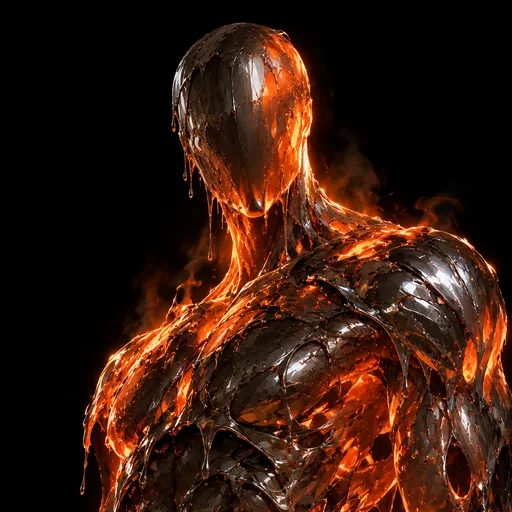
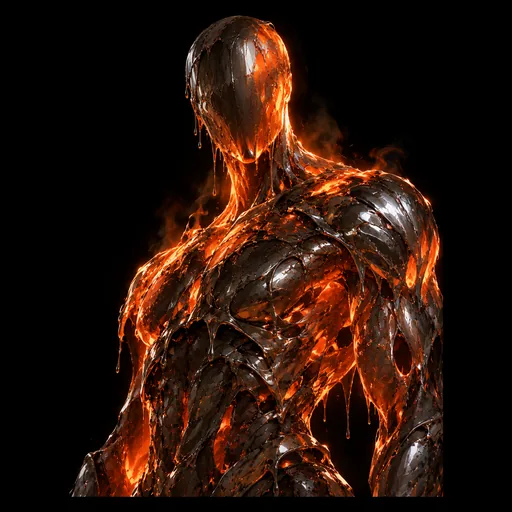
Арт новых карт пересобран конвейером; лист карт обновлён
Я поставил пять артов МИМО конвейера — руками кадрировал и клал webp прямо в
art/cards. А в проекте для этого есть tools/art_cards.py, и он делает ровно то,
чего моему ручному кадру не хватило:

  в_квадрат() режет окно вокруг СЮЖЕТА, а не по кадру, и сажает сюжет в ту же
    долю высоты, что у готовых артов. Мой кадр срезал Барри и Аманду краем
    карты — у прежних карт такого нет;
  кайма_в_ноль() гасит края в чистый (0,0,0) с плато у самого края, чтобы webp
    не подтянул ноль к соседям. Именно поэтому у всех старых карт край чёрный,
    а у моих ручных доходил до 255.

Оригиналы автора положены в art/_raw (папка в .gitignore, как и было), в MAP
дописаны пять строк, арт пересобран. Края стали 0-2 вместо 194-255, сюжет
целиком внутри рамки. Проверено, что конвейер детерминированный: из 47 карт
изменились ровно мои десять файлов, остальные воспроизвелись побайтово.

В шапке art_cards.py поправлен путь: CARD_ART живёт в js/07-cards.js, а не в
js/02-data.js, как там было написано.

cards-sheet.html пересобран: он ГЕНЕРИРУЕМЫЙ, и висел на 38 картах, когда в
игре их стало 43. Остальные стенды правки не потребовали — dev.html,
poster-lab, story.html, scene-lab и map-lab читают настоящий js/02-data.js и
подхватили всё сами: проверено, дев-панель показывает 42 строки коллекции и все
пять новых карт.

Метку сборки не поднимаю: файлы, на которые она стоит, не менялись. Арт
кэш-меткой не прикрыт вовсе, но он у нас только прибавляется, а не заменяется.

diff --git a/cards-sheet.html b/cards-sheet.html
@@ -120,7 +120,7 @@ const S={foil:false,anim:false,vfx:false,gfx:{}};
 <script src="js/07-cards.js"></script>
 
 <h1>БАМ-БАМ: КАСКАД — все карты</h1>
-<div class="sub">38 карт · без арта: 1 · тексты посчитаны кодом игры · tools/cards_sheet.py</div>
+<div class="sub">43 карт · без арта: 1 · тексты посчитаны кодом игры · tools/cards_sheet.py</div>
 <h2>РЕКРУТ <span>★ · 11 карт · без арта: 1</span></h2>
 <div class="grid"><article class="c t0" style="--el:#c9d4dc">
   <div class="вид" data-id="r01"></div>
@@ -130,7 +130,7 @@ const S={foil:false,anim:false,vfx:false,gfx:{}};
   <div class="meta"><b class="el">СТАЛЬ</b><b class="tier">РЕКРУТ ★</b></div>
   <div class="stats"><span class="st"><b class="a">2</b><i>АТАКА</i></span><span class="st"><b class="h">1</b><i>ЖИЗНИ</i></span></div>
   
-  <p class="desc">Без эффекта — честный боец: ставь на поле, со следующего хода атакует. Хорошие статы за свои деньги.</p>
+  <p class="desc">Без боевого клича — честный боец: ставь на поле, со следующего хода атакует. Хорошие статы за свои деньги.</p>
   <p class="fl">«Осторожно — злые собаки.»</p>
   <div class="tags"><b class="tag ok">арт есть</b></div>
 </article>
@@ -142,7 +142,7 @@ const S={foil:false,anim:false,vfx:false,gfx:{}};
   <div class="meta"><b class="el">СТАЛЬ</b><b class="tier">РЕКРУТ ★</b><b class="kw">ТАУНТ</b></div>
   <div class="stats"><span class="st"><b class="a">2</b><i>АТАКА</i></span><span class="st"><b class="h">3</b><i>ЖИЗНИ</i></span></div>
   <p><span class="kw">ТАУНТ</span> пока он жив, вражеские юниты обязаны бить его, а не героя. <b>Заклятия и боевые кличи он НЕ останавливает</b> — по герою из них попасть можно</p>
-  <p class="desc">Без эффекта — честный боец: ставь на поле, со следующего хода атакует. Хорошие статы за свои деньги.</p>
+  <p class="desc">Без боевого клича — работа простая: встать стеной и держать удар. Хорошие статы за свои деньги.</p>
   <p class="fl">«Патрулирует. Что ему ещё делать?»</p>
   <div class="tags"><b class="tag ok">арт есть</b></div>
 </article>
@@ -166,7 +166,7 @@ const S={foil:false,anim:false,vfx:false,gfx:{}};
   <div class="meta"><b class="el">ОГОНЬ</b><b class="tier">РЕКРУТ ★</b></div>
   <div class="stats"><span class="st"><b class="a">3</b><i>АТАКА</i></span><span class="st"><b class="h">3</b><i>ЖИЗНИ</i></span></div>
   
-  <p class="desc">Без эффекта — честный боец: ставь на поле, со следующего хода атакует. Хорошие статы за свои деньги.</p>
+  <p class="desc">Без боевого клича — честный боец: ставь на поле, со следующего хода атакует. Хорошие статы за свои деньги.</p>
   <p class="fl">«Ищет брата. Третий курс Полицейской Академии.»</p>
   <div class="tags"><b class="tag ok">арт есть</b></div>
 </article>
@@ -190,7 +190,7 @@ const S={foil:false,anim:false,vfx:false,gfx:{}};
   <div class="meta"><b class="el">ВОЛЬТА</b><b class="tier">РЕКРУТ ★</b><b class="kw">РАШ</b></div>
   <div class="stats"><span class="st"><b class="a">3</b><i>АТАКА</i></span><span class="st"><b class="h">1</b><i>ЖИЗНИ</i></span></div>
   <p><span class="kw">РАШ</span> атакует в тот же ход, когда вышел — не ждёт</p>
-  <p class="desc">Без эффекта — честный боец: ставь на поле, со следующего хода атакует. Хорошие статы за свои деньги.</p>
+  <p class="desc">Без боевого клича — вся сила в статах и в <span class="kw">РАШе</span>: бьёт в тот же ход, когда вышел.</p>
   <p class="fl">«Не ясно, как именно он целится, но в целом попадает.»</p>
   <div class="tags"><b class="tag ok">арт есть</b></div>
 </article>
@@ -202,7 +202,7 @@ const S={foil:false,anim:false,vfx:false,gfx:{}};
   <div class="meta"><b class="el">ЛЁД</b><b class="tier">РЕКРУТ ★</b><b class="kw">ТАУНТ</b></div>
   <div class="stats"><span class="st"><b class="a">3</b><i>АТАКА</i></span><span class="st"><b class="h">5</b><i>ЖИЗНИ</i></span></div>
   <p><span class="kw">ТАУНТ</span> пока он жив, вражеские юниты обязаны бить его, а не героя. <b>Заклятия и боевые кличи он НЕ останавливает</b> — по герою из них попасть можно</p>
-  <p class="desc">Без эффекта — честный боец: ставь на поле, со следующего хода атакует. Хорошие статы за свои деньги.</p>
+  <p class="desc">Без боевого клича — работа простая: встать стеной и держать удар. Хорошие статы за свои деньги.</p>
   <p class="fl">«Пост сдал — пост принял…»</p>
   <div class="tags"><b class="tag ok">арт есть</b></div>
 </article>
@@ -254,7 +254,7 @@ const S={foil:false,anim:false,vfx:false,gfx:{}};
   <p class="fl">«1 эспрессо = 1 мана»</p>
   <div class="tags"><b class="tag">не выпадает из паков</b><b class="tag no">АРТА НЕТ</b></div>
 </article></div>
-<h2>ГОРОД <span>★★ · 9 карт · без арта: 0</span></h2>
+<h2>ГОРОД <span>★★ · 11 карт · без арта: 0</span></h2>
 <div class="grid"><article class="c t1" style="--el:#c9d4dc">
   <div class="вид" data-id="c01"></div>
   <header><span class="cost">4</span>
@@ -263,7 +263,7 @@ const S={foil:false,anim:false,vfx:false,gfx:{}};
   <div class="meta"><b class="el">СТАЛЬ</b><b class="tier">ГОРОД ★★</b><b class="kw">РАШ</b></div>
   <div class="stats"><span class="st"><b class="a">3</b><i>АТАКА</i></span><span class="st"><b class="h">5</b><i>ЖИЗНИ</i></span></div>
   <p><span class="kw">РАШ</span> атакует в тот же ход, когда вышел — не ждёт</p>
-  <p class="desc">Без эффекта — честный боец: ставь на поле, со следующего хода атакует. Хорошие статы за свои деньги.</p>
+  <p class="desc">Без боевого клича — вся сила в статах и в <span class="kw">РАШе</span>: бьёт в тот же ход, когда вышел.</p>
   <p class="fl">«АИ-95? Не смеши, дорого же…»</p>
   <div class="tags"><b class="tag ok">арт есть</b></div>
 </article>
@@ -311,7 +311,7 @@ const S={foil:false,anim:false,vfx:false,gfx:{}};
   <div class="meta"><b class="el">ВОЛЬТА</b><b class="tier">ГОРОД ★★</b></div>
   <div class="stats"><span class="st"><b class="a">3</b><i>АТАКА</i></span><span class="st"><b class="h">4</b><i>ЖИЗНИ</i></span></div>
   
-  <p class="desc">Без эффекта — честный боец: ставь на поле, со следующего хода атакует. Хорошие статы за свои деньги.</p>
+  <p class="desc">Без боевого клича — честный боец: ставь на поле, со следующего хода атакует. Хорошие статы за свои деньги.</p>
   <p class="fl">«Я волна… ударная волна!»</p>
   <div class="tags"><b class="tag ok">арт есть</b></div>
 </article>
@@ -340,6 +340,18 @@ const S={foil:false,anim:false,vfx:false,gfx:{}};
   <div class="tags"><b class="tag ok">арт есть</b></div>
 </article>
 <article class="c t1" style="--el:#c9d4dc">
+  <div class="вид" data-id="c14"></div>
+  <header><span class="cost">3</span>
+    <h3>Барри Бронник</h3>
+    <span class="id">c14</span></header>
+  <div class="meta"><b class="el">СТАЛЬ</b><b class="tier">ГОРОД ★★</b></div>
+  <div class="stats"><span class="st"><b class="a">3</b><i>АТАКА</i></span><span class="st"><b class="h">3</b><i>ЖИЗНИ</i></span></div>
+  
+  <p class="desc">Без боевого клича — честный боец: ставь на поле, со следующего хода атакует. Хорошие статы за свои деньги.</p>
+  <p class="fl">«Шел медведь по лесу, видит бронежилет...»</p>
+  <div class="tags"><b class="tag ok">арт есть</b></div>
+</article>
+<article class="c t1" style="--el:#c9d4dc">
   <div class="вид" data-id="s03"></div>
   <header><span class="cost">3</span>
     <h3>Ночной Чайник</h3>
@@ -362,8 +374,20 @@ const S={foil:false,anim:false,vfx:false,gfx:{}};
   <p class="desc"><b>Эхо-заклятие:</b> <b>3 урона</b> одной цели на выбор: любому <b>вражескому юниту</b> или <b>вражескому герою</b>. Таунт этому не мешает — он держит только атаки.</p>
   <p class="fl">«Внутри правда ничего нет, удивительно.»</p>
   <div class="tags"><b class="tag ok">арт есть</b></div>
+</article>
+<article class="c t1" style="--el:#c9d4dc">
+  <div class="вид" data-id="s11"></div>
+  <header><span class="cost">1</span>
+    <h3>Зеркальный щит</h3>
+    <span class="id">s11</span></header>
+  <div class="meta"><b class="el">СТАЛЬ</b><b class="tier">ГОРОД ★★</b></div>
+  <div class="stats"><span class="echo">ЭХО-ЗАКЛЯТИЕ</span></div>
+  
+  <p class="desc"><b>Эхо-заклятие:</b> <b>отражает последний урон, который тебе нанесли КАРТОЙ</b> — заклятием или боевым кличем. Удар существа не в счёт. Летит в любую цель на выбор: вражеский юнит или вражеский герой. Если картой ещё не били, отражать нечего.</p>
+  <p class="fl">«Ударить по зеркалу = ударить по себе, так это работает?»</p>
+  <div class="tags"><b class="tag ok">арт есть</b></div>
 </article></div>
-<h2>ФРАКЦИЯ <span>★★★ · 9 карт · без арта: 0</span></h2>
+<h2>ФРАКЦИЯ <span>★★★ · 11 карт · без арта: 0</span></h2>
 <div class="grid"><article class="c t2" style="--el:#ffd52e">
   <div class="вид" data-id="c04"></div>
   <header><span class="cost">2</span>
@@ -396,7 +420,7 @@ const S={foil:false,anim:false,vfx:false,gfx:{}};
   <div class="meta"><b class="el">ЛЁД</b><b class="tier">ФРАКЦИЯ ★★★</b><b class="kw">РАШ</b></div>
   <div class="stats"><span class="st"><b class="a">3</b><i>АТАКА</i></span><span class="st"><b class="h">1</b><i>ЖИЗНИ</i></span></div>
   <p><span class="kw">РАШ</span> атакует в тот же ход, когда вышел — не ждёт</p>
-  <p class="desc">Без эффекта — честный боец: ставь на поле, со следующего хода атакует. Хорошие статы за свои деньги.</p>
+  <p class="desc">Без боевого клича — вся сила в статах и в <span class="kw">РАШе</span>: бьёт в тот же ход, когда вышел.</p>
   <p class="fl">«Холоден, как лезвие его клинка.»</p>
   <div class="tags"><b class="tag ok">арт есть</b></div>
 </article>
@@ -420,7 +444,7 @@ const S={foil:false,anim:false,vfx:false,gfx:{}};
   <div class="meta"><b class="el">СТАЛЬ</b><b class="tier">ФРАКЦИЯ ★★★</b><b class="kw">ТАУНТ</b></div>
   <div class="stats"><span class="st"><b class="a">3</b><i>АТАКА</i></span><span class="st"><b class="h">6</b><i>ЖИЗНИ</i></span></div>
   <p><span class="kw">ТАУНТ</span> пока он жив, вражеские юниты обязаны бить его, а не героя. <b>Заклятия и боевые кличи он НЕ останавливает</b> — по герою из них попасть можно</p>
-  <p class="desc">Без эффекта — честный боец: ставь на поле, со следующего хода атакует. Хорошие статы за свои деньги.</p>
+  <p class="desc">Без боевого клича — работа простая: встать стеной и держать удар. Хорошие статы за свои деньги.</p>
   <p class="fl">«Не толстый, просто кость широкая.»</p>
   <div class="tags"><b class="tag ok">арт есть</b></div>
 </article>
@@ -432,8 +456,20 @@ const S={foil:false,anim:false,vfx:false,gfx:{}};
   <div class="meta"><b class="el">ОГОНЬ</b><b class="tier">ФРАКЦИЯ ★★★</b></div>
   <div class="stats"><span class="st"><b class="a">5</b><i>АТАКА</i></span><span class="st"><b class="h">5</b><i>ЖИЗНИ</i></span></div>
   
-  <p class="desc">Без эффекта — честный боец: ставь на поле, со следующего хода атакует. Хорошие статы за свои деньги.</p>
+  <p class="desc">Без боевого клича — честный боец: ставь на поле, со следующего хода атакует. Хорошие статы за свои деньги.</p>
   <p class="fl">«Если он подмёл — улик не будет.»</p>
+  <div class="tags"><b class="tag ok">арт есть</b></div>
+</article>
+<article class="c t2" style="--el:#c9d4dc">
+  <div class="вид" data-id="c15"></div>
+  <header><span class="cost">5</span>
+    <h3>Жидкая сталь</h3>
+    <span class="id">c15</span></header>
+  <div class="meta"><b class="el">СТАЛЬ</b><b class="tier">ФРАКЦИЯ ★★★</b></div>
+  <div class="stats"><span class="st"><b class="a">4</b><i>АТАКА</i></span><span class="st"><b class="h">6</b><i>ЖИЗНИ</i></span></div>
+  
+  <p class="desc">Без боевого клича — честный боец: ставь на поле, со следующего хода атакует. Хорошие статы за свои деньги.</p>
+  <p class="fl">«Куй металл пока горячо!»</p>
   <div class="tags"><b class="tag ok">арт есть</b></div>
 </article>
 <article class="c t2" style="--el:#ff6a1f">
@@ -471,8 +507,20 @@ const S={foil:false,anim:false,vfx:false,gfx:{}};
   <p class="desc"><b>Эхо-заклятие:</b> <b>2 урона КАЖДОМУ юниту врага</b> разом. Героя не задевает, цель не выбирается.</p>
   <p class="fl">«untitled.mp3»</p>
   <div class="tags"><b class="tag ok">арт есть</b></div>
+</article>
+<article class="c t2" style="--el:#c9d4dc">
+  <div class="вид" data-id="s10"></div>
+  <header><span class="cost">2</span>
+    <h3>Алю-минь</h3>
+    <span class="id">s10</span></header>
+  <div class="meta"><b class="el">СТАЛЬ</b><b class="tier">ФРАКЦИЯ ★★★</b></div>
+  <div class="stats"><span class="echo">ЭХО-ЗАКЛЯТИЕ</span></div>
+  
+  <p class="desc"><b>Эхо-заклятие:</b> <b>+1 к урону и +3 к жизням</b> одному <b>твоему</b> юниту на выбор. Навсегда, до конца боя.</p>
+  <p class="fl">«Не такой крутой как сталь, но всё же»</p>
+  <div class="tags"><b class="tag ok">арт есть</b></div>
 </article></div>
-<h2>ЛЕГЕНДА <span>★★★★ · 8 карт · без арта: 0</span></h2>
+<h2>ЛЕГЕНДА <span>★★★★ · 9 карт · без арта: 0</span></h2>
 <div class="grid"><article class="c t3" style="--el:#ff4fd8">
   <div class="вид" data-id="L01"></div>
   <header><span class="cost">5</span>
@@ -509,12 +557,12 @@ const S={foil:false,anim:false,vfx:false,gfx:{}};
   <p class="fl">«Из-за того, что на нём смокинг и он курит!»</p>
   <div class="tags"><b class="tag ok">арт есть</b></div>
 </article>
-<article class="c t3" style="--el:#35f0ff">
+<article class="c t3" style="--el:#ff6a1f">
   <div class="вид" data-id="L04"></div>
   <header><span class="cost">6</span>
     <h3>Люмень</h3>
     <span class="id">L04</span></header>
-  <div class="meta"><b class="el">ЛЁД</b><b class="tier">ЛЕГЕНДА ★★★★</b></div>
+  <div class="meta"><b class="el">ОГОНЬ</b><b class="tier">ЛЕГЕНДА ★★★★</b></div>
   <div class="stats"><span class="st"><b class="a">5</b><i>АТАКА</i></span><span class="st"><b class="h">6</b><i>ЖИЗНИ</i></span></div>
   
   <p class="desc"><b>Боевой клич:</b> каждый юнит врага теряет <b>1 урон</b> (не ниже нуля). Жизни не трогает, цель не выбирается.</p>
@@ -529,20 +577,32 @@ const S={foil:false,anim:false,vfx:false,gfx:{}};
   <div class="meta"><b class="el">ОГОНЬ</b><b class="tier">ЛЕГЕНДА ★★★★</b><b class="kw">РАШ</b></div>
   <div class="stats"><span class="st"><b class="a">7</b><i>АТАКА</i></span><span class="st"><b class="h">6</b><i>ЖИЗНИ</i></span></div>
   <p><span class="kw">РАШ</span> атакует в тот же ход, когда вышел — не ждёт</p>
-  <p class="desc">Без эффекта — честный боец: ставь на поле, со следующего хода атакует. Хорошие статы за свои деньги.</p>
+  <p class="desc">Без боевого клича — вся сила в статах и в <span class="kw">РАШе</span>: бьёт в тот же ход, когда вышел.</p>
   <p class="fl">«Кто сказал, что хрупкая девочка не может носить катану?»</p>
   <div class="tags"><b class="tag ok">арт есть</b></div>
 </article>
-<article class="c t3" style="--el:#c9d4dc">
+<article class="c t3" style="--el:#ff6a1f">
   <div class="вид" data-id="L06"></div>
   <header><span class="cost">5</span>
     <h3>Веста</h3>
     <span class="id">L06</span></header>
-  <div class="meta"><b class="el">СТАЛЬ</b><b class="tier">ЛЕГЕНДА ★★★★</b></div>
+  <div class="meta"><b class="el">ОГОНЬ</b><b class="tier">ЛЕГЕНДА ★★★★</b></div>
   <div class="stats"><span class="st"><b class="a">4</b><i>АТАКА</i></span><span class="st"><b class="h">7</b><i>ЖИЗНИ</i></span></div>
   
   <p class="desc"><b>Боевой клич:</b> <b>+4 здоровья</b> твоему герою <b>и каждому твоему юниту</b> на поле. Цель не выбирается.</p>
   <p class="fl">«И согреть, и испепелить может — поаккуратнее с ней…»</p>
+  <div class="tags"><b class="tag ok">арт есть</b></div>
+</article>
+<article class="c t3" style="--el:#c9d4dc">
+  <div class="вид" data-id="L07"></div>
+  <header><span class="cost">6</span>
+    <h3>Аманда Армори</h3>
+    <span class="id">L07</span></header>
+  <div class="meta"><b class="el">СТАЛЬ</b><b class="tier">ЛЕГЕНДА ★★★★</b><b class="kw">РАШ</b></div>
+  <div class="stats"><span class="st"><b class="a">5</b><i>АТАКА</i></span><span class="st"><b class="h">7</b><i>ЖИЗНИ</i></span></div>
+  <p><span class="kw">РАШ</span> атакует в тот же ход, когда вышел — не ждёт</p>
+  <p class="desc">Без боевого клича — вся сила в статах и в <span class="kw">РАШе</span>: бьёт в тот же ход, когда вышел.</p>
+  <p class="fl">«Тяжелый доспех не мешает легкости движений!»</p>
   <div class="tags"><b class="tag ok">арт есть</b></div>
 </article>
 <article class="c t3" style="--el:#ff4fd8">

diff --git a/tools/art_cards.py b/tools/art_cards.py
@@ -13,7 +13,7 @@
 
 Новый арт: положить PNG в art/_raw, дописать строку в MAP, запустить
     python tools/art_cards.py
-и добавить id в CARD_ART (js/02-data.js).
+и добавить id в CARD_ART (js/07-cards.js — не в 02-data.js, там только сами карты).
 
 Ни пропорции оригинала, ни цвет его подложки значения не имеют:
   — неквадратный кадр вписывается в квадрат по сюжету, см. в_квадрат();
@@ -58,6 +58,12 @@ MAP = {
     'L06': 'VESTA.png',
     's08': 'HEARTOFABYSS.png',
     's09': 'STING.png',
+    # пятая партия, 9 сентября 2026 — первая партия стальных карт
+    'c14': 'barry.png',
+    'c15': 'liquidmetal.png',
+    's10': 'alumen.png',
+    's11': 'mirror shield.png',
+    'L07': 'Armory.png',
     'X01': '1WAYTICKET.png',
 }
 
